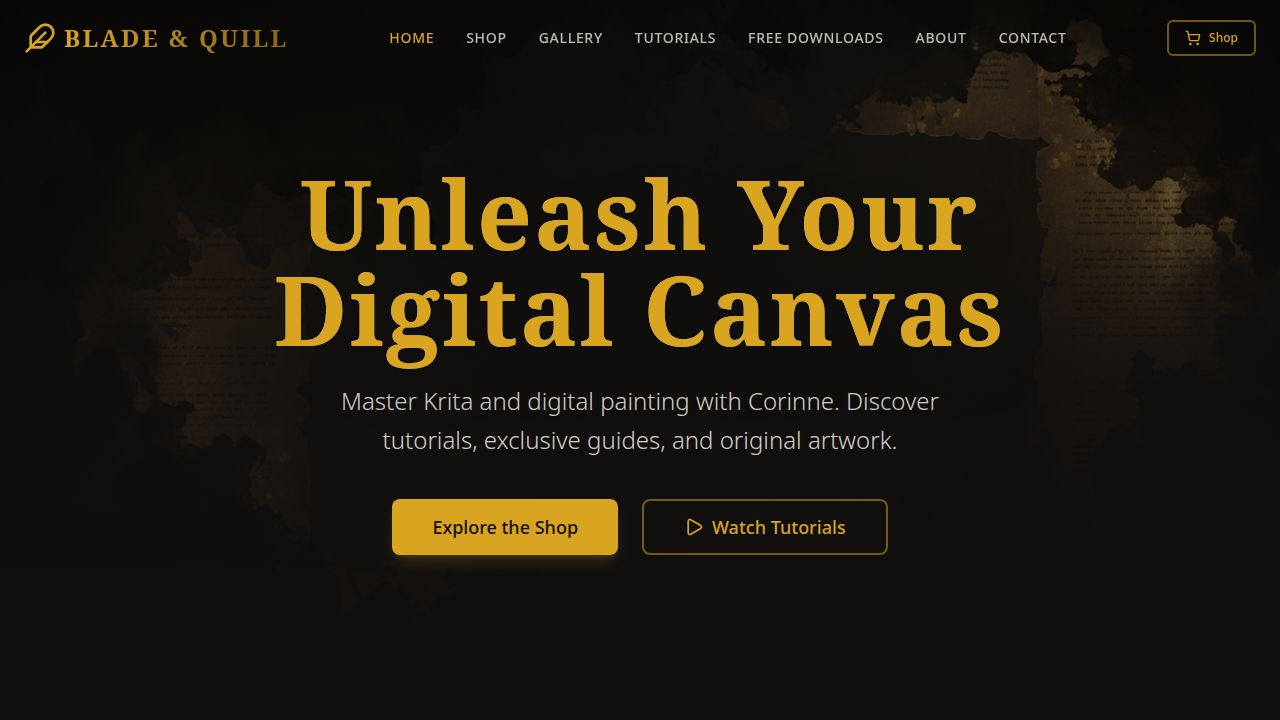
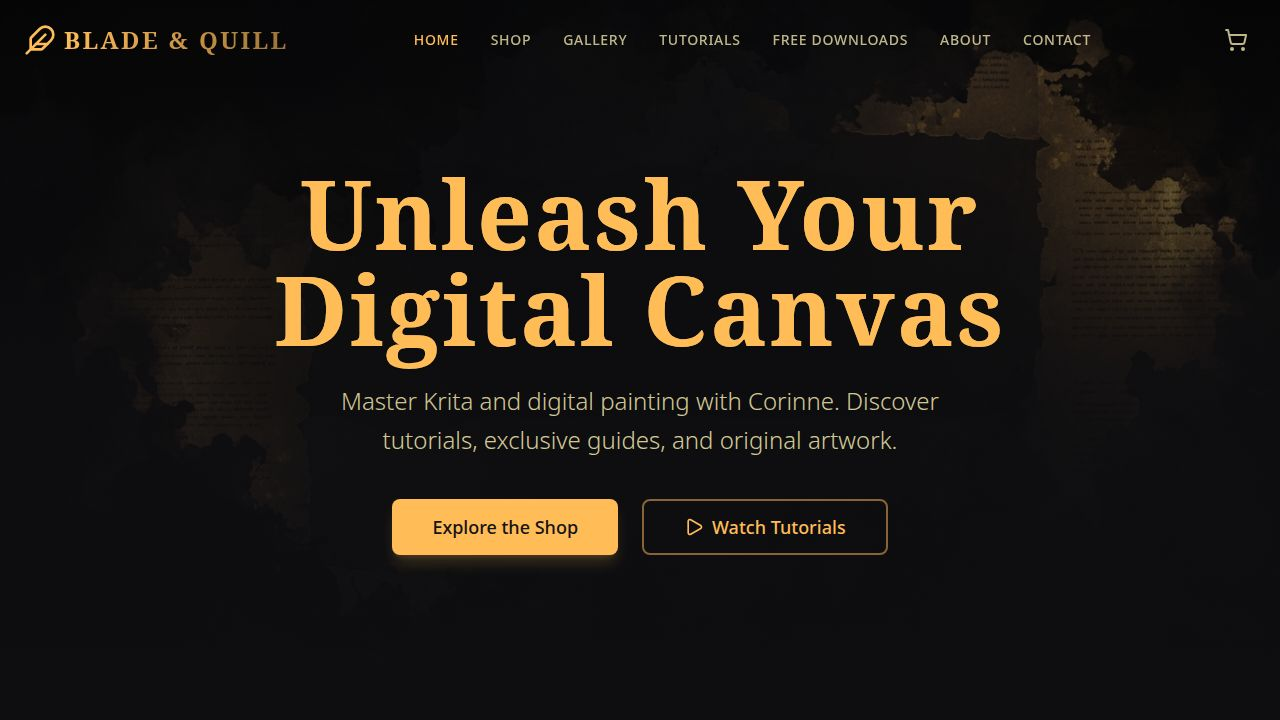
Update website with a new global color palette
Refactor CSS variables to implement a new global color scheme based on a selected style guide palette, including background, foreground, primary, and accent colors.

Replit-Commit-Author: Agent
Replit-Commit-Session-Id: 6e4e956c-23c7-478a-87ab-0126a3df8b26
Replit-Commit-Checkpoint-Type: full_checkpoint
Replit-Commit-Event-Id: e9ab5ed7-6bdb-4e74-9784-cfed23c49db9
Replit-Commit-Screenshot-Url: https://storage.googleapis.com/screenshot-production-us-central1/0c7e2ccc-bc2f-4cf5-adec-48639b6b7ed7/6e4e956c-23c7-478a-87ab-0126a3df8b26/ZfdhCh9
Replit-Helium-Checkpoint-Created: true

diff --git a/artifacts/blade-quill/src/index.css b/artifacts/blade-quill/src/index.css
@@ -24,30 +24,38 @@
 }
 
 :root {
-  /* Dark Illustrative Editorial Theme / Ink & Parchment */
-  --background: 30 10% 6%; /* Deep warm black/charcoal */
-  --foreground: 40 20% 90%; /* Parchment off-white */
-  
-  --primary: 43 74% 49%; /* Rich aged gold/amber */
-  --primary-foreground: 30 10% 6%; /* Dark text on gold */
-  
-  --secondary: 30 10% 12%; /* Lighter charcoal */
-  --secondary-foreground: 40 20% 90%;
-  
-  --muted: 30 8% 15%;
-  --muted-foreground: 30 15% 65%;
-  
-  --accent: 15 60% 45%; /* Deep terracotta/rust red */
-  --accent-foreground: 40 20% 90%;
-  
+  /*
+   * Style guide palette — 4 chosen colors:
+   *   #43434e  cool charcoal slate  → background / card family
+   *   #ede2aa  warm parchment gold  → foreground text
+   *   #ffbd59  vivid amber          → primary accent (hue 36°)
+   *   #97abc4  slate blue-grey      → secondary accent (hue 213°)
+   */
+
+  /* Background family — hue 240° (from #43434e), brightness scaled way down */
+  --background: 240 8% 6%;
+  --card: 240 8% 10%;
+  --secondary: 240 8% 14%;
+  --muted: 240 6% 17%;
+  --border: 240 8% 21%;
+
+  /* Foreground — #ede2aa → hsl(50, 65%, 80%) */
+  --foreground: 50 65% 80%;
+  --secondary-foreground: 50 65% 80%;
+  --card-foreground: 50 65% 80%;
+  --muted-foreground: 50 22% 60%;
+
+  /* Primary — #ffbd59 → hsl(36, 100%, 67%) */
+  --primary: 36 100% 67%;
+  --primary-foreground: 240 8% 8%;
+  --ring: 36 100% 67%;
+
+  /* Accent — #97abc4 → hsl(213, 28%, 68%) */
+  --accent: 213 28% 55%;
+  --accent-foreground: 240 8% 8%;
+
   --destructive: 0 84% 60%;
-  --destructive-foreground: 210 40% 98%;
-  
-  --border: 30 10% 18%;
-  --ring: 43 74% 49%;
-  
-  --card: 30 10% 9%;
-  --card-foreground: 40 20% 90%;
+  --destructive-foreground: 50 65% 95%;
 }
 
 @layer base {
@@ -56,7 +64,8 @@
   }
   body {
     @apply bg-background text-foreground antialiased font-sans selection:bg-primary/30 selection:text-primary;
-    background-image: radial-gradient(circle at top center, rgba(40, 35, 30, 0.4) 0%, rgba(15, 14, 13, 1) 100%);
+    /* Gradient uses the charcoal hue (#43434e) → very dark at edges */
+    background-image: radial-gradient(circle at top center, hsl(240 8% 11% / 0.6) 0%, hsl(240 8% 4%) 100%);
     background-attachment: fixed;
   }
 
@@ -91,8 +100,9 @@
   .glass-panel {
     @apply bg-card/60 backdrop-blur-md border border-white/5 shadow-xl;
   }
+  /* gold glow updated to match #ffbd59 */
   .gold-glow:hover {
-    box-shadow: 0 0 20px rgba(212, 175, 55, 0.15);
+    box-shadow: 0 0 20px rgba(255, 189, 89, 0.18);
   }
   .scrollbar-hide {
     -ms-overflow-style: none;
